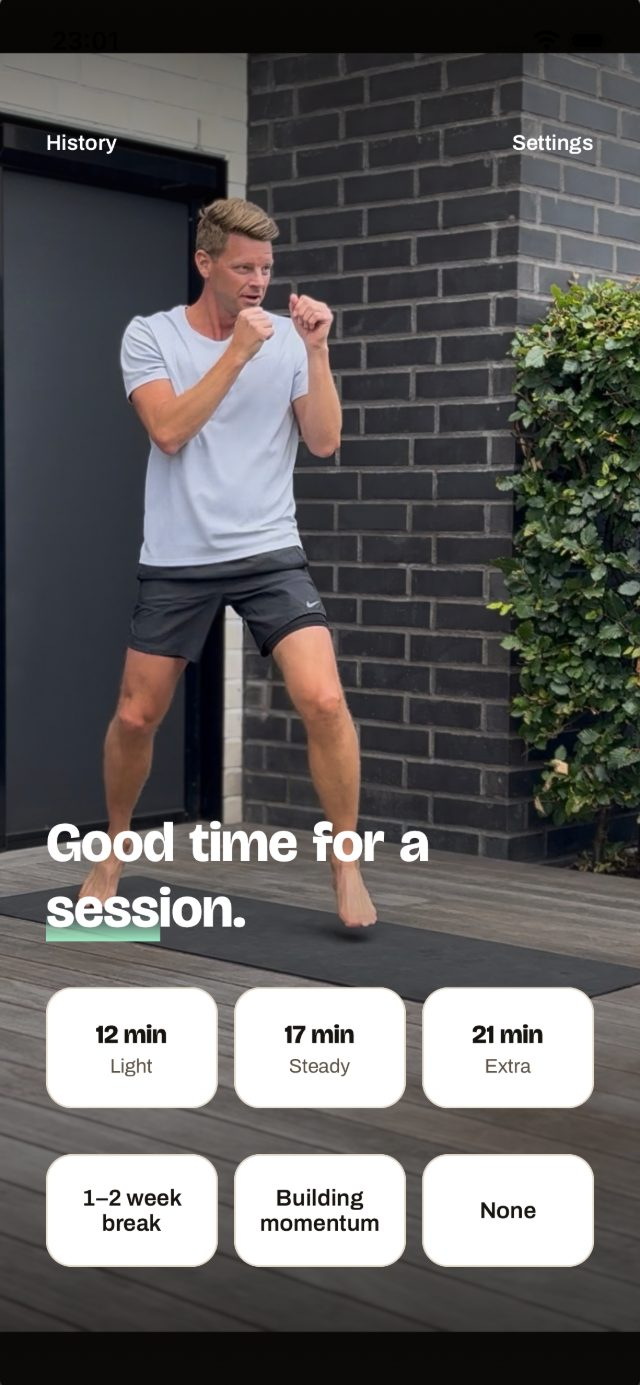
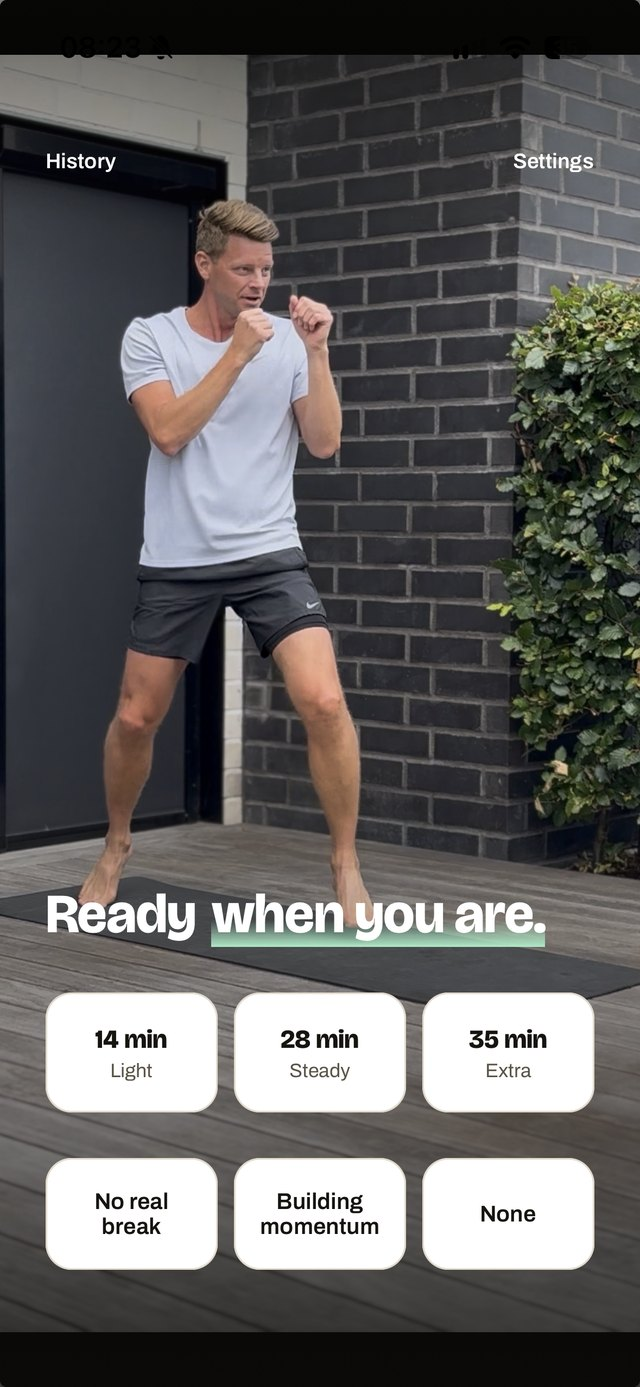
Publish website from f9344ca
Generated in the app repository under website/. Edit it there, not here.

diff --git a/index.html b/index.html
@@ -53,7 +53,7 @@
     </div>
     <div style="flex: none; max-width: 100%; display: flex; justify-content: center; overflow: hidden;">
       <div style="width: 340px; height: 712px; border-radius: 46px; background: #17271F; padding: 10px; box-sizing: border-box; box-shadow: 0 26px 60px rgba(23,39,31,.28); flex: none;">
-        <img src="screens/home.jpg" alt="Oreuma home screen: Good time for a session, with 12, 17 and 21 minute options" style="width: 320px; height: 692px; border-radius: 36px; display: block; object-fit: cover;">
+        <img src="screens/home.jpg" alt="Oreuma home screen: Ready when you are, with Light, Steady and Extra options" style="width: 320px; height: 692px; border-radius: 36px; display: block; object-fit: cover;">
       </div>
     </div>
   </section>
@@ -69,7 +69,7 @@
         </div>
         <div style="display: flex; flex-direction: column; gap: 12px;">
           <span style="font-family: 'Bricolage Grotesque', sans-serif; font-size: 40px; font-weight: 600; color: #3FBF87; line-height: 1;">02</span>
-          <h3 style="font-size: 19px; font-weight: 600; margin: 0;">12, 17 or 21 minutes</h3>
+          <h3 style="font-size: 19px; font-weight: 600; margin: 0;">Light, Steady or Extra</h3>
           <p style="font-size: 15px; line-height: 1.55; color: #46564C; margin: 0;">Strength, mobility and a little athletic play, mixed fresh — so no two sessions feel the same.</p>
         </div>
         <div style="display: flex; flex-direction: column; gap: 12px;">
@@ -87,7 +87,7 @@
       
       <figure style="margin: 0; display: flex; flex-direction: column; gap: 12px; width: 236px;">
         <div style="width: 236px; height: 492px; border-radius: 32px; background: #17271F; padding: 8px; box-sizing: border-box;">
-          <img src="screens/session-sm.png" alt="Today's session — a 17 minute tune-up with warm-up and two rounds" style="width: 220px; height: 476px; border-radius: 25px; display: block; object-fit: cover;">
+          <img src="screens/session-sm.png" alt="Today's session: warm-up, a play move, then three rounds" style="width: 220px; height: 476px; border-radius: 25px; display: block; object-fit: cover;">
         </div>
         <figcaption style="font-size: 13px; line-height: 1.5; color: #6B7A70;">Built for today. Swap anything you'd rather not do.</figcaption>
       </figure>
